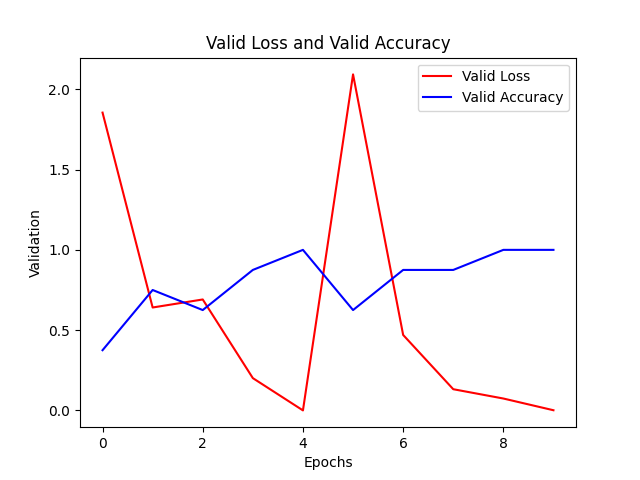
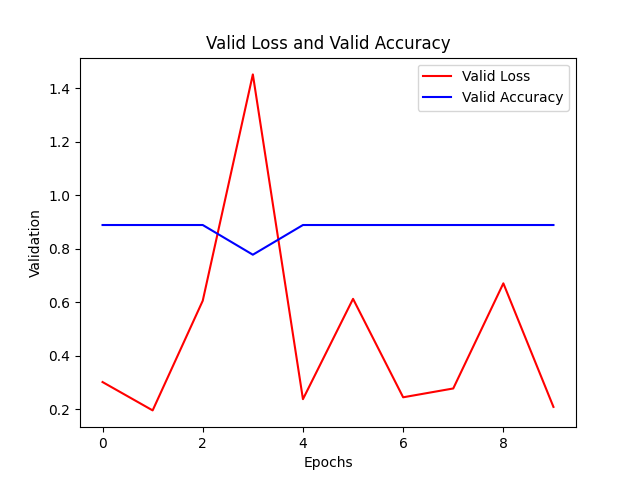
Correcciones

diff --git a/testing.py b/testing.py
@@ -121,10 +121,21 @@ def plot_solution(image_path, model_path):
     ax[1].set_yticks(y_names)
     ax[1].set_yticklabels(names)
     ax[1].invert_yaxis()
+save_replace = False
+if len(sys.argv) == 3:
+    save_replace = True
+if len(sys.argv) > 1:
+    imgdir = sys.argv[1]
+else:
+    imgdir = input('Ingrese la ruta y nombre del archivo: ').strip()
 
-imgdir = input('Ingrese la ruta y nombre del archivo: ').strip()
 if imgdir.startswith('\'') and imgdir.endswith('\''):
     imgdir = imgdir[1:-1]
 
 plot_solution(imgdir, 'modelFinal.pth')
-plt.show()
+
+if save_replace:
+    plt.savefig(imgdir)
+
+if not save_replace:
+    plt.show()

diff --git a/preparar_dataset.py b/preparar_dataset.py
@@ -31,8 +31,8 @@ for (ruta_fuente, clase) in (
 
     params = [
         (RUTA_DESTINO_TRAIN, lista_train),
-        (RUTA_DESTINO_VALID, lista_test),
-        (RUTA_DESTINO_TEST, lista_valid),
+        (RUTA_DESTINO_VALID, lista_valid),
+        (RUTA_DESTINO_TEST, lista_test),
     ]
 
     for ruta_destino, lista_archivo in params:
